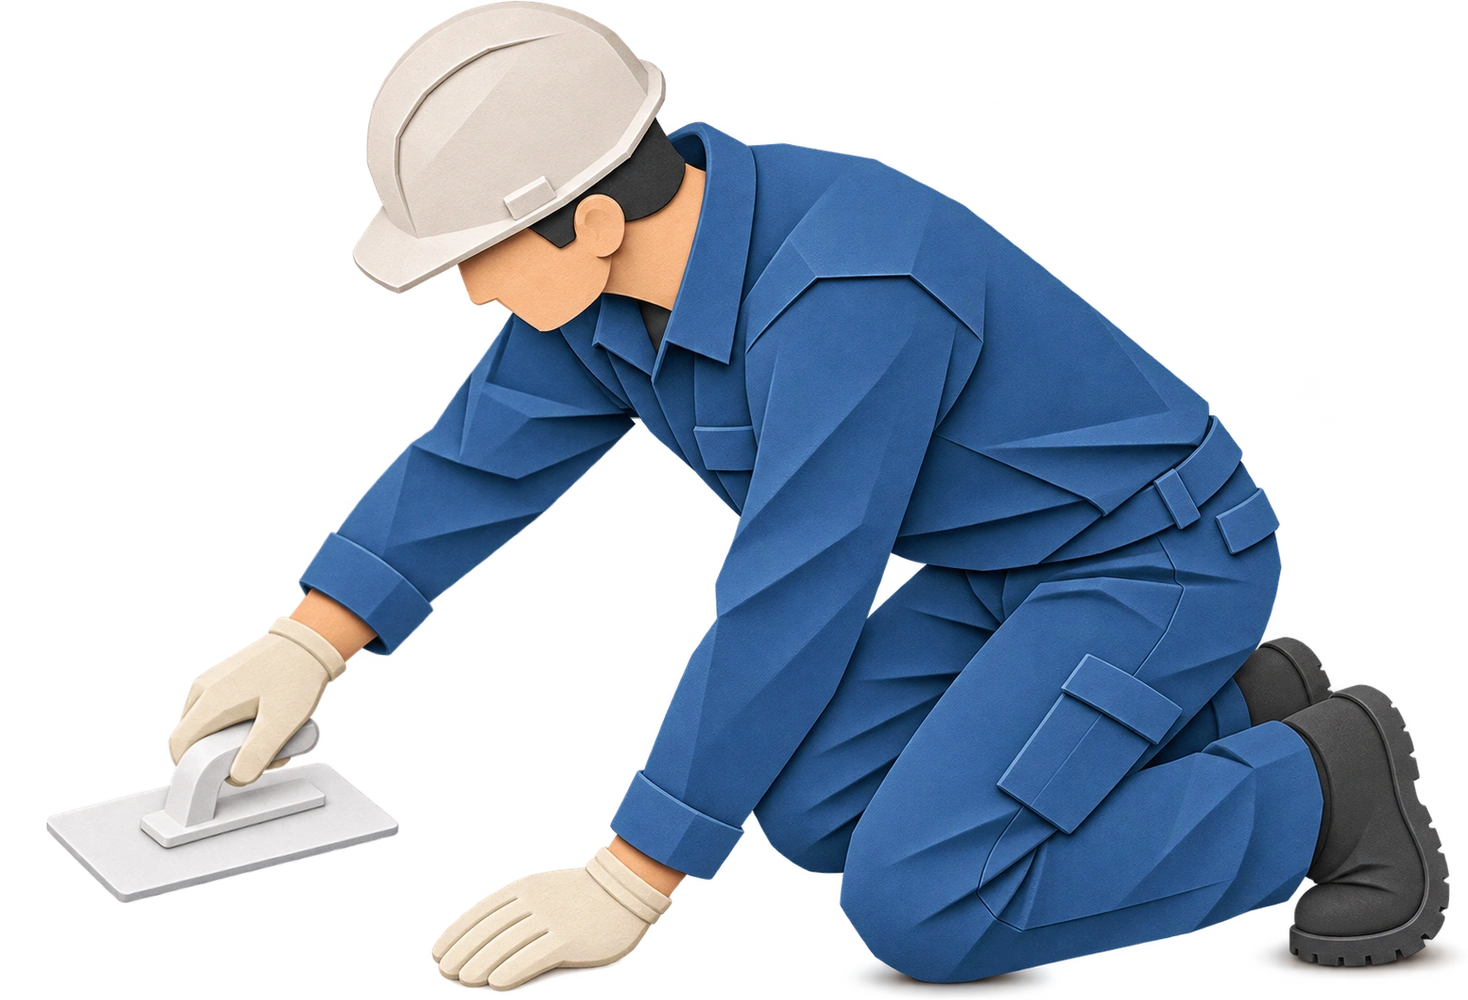
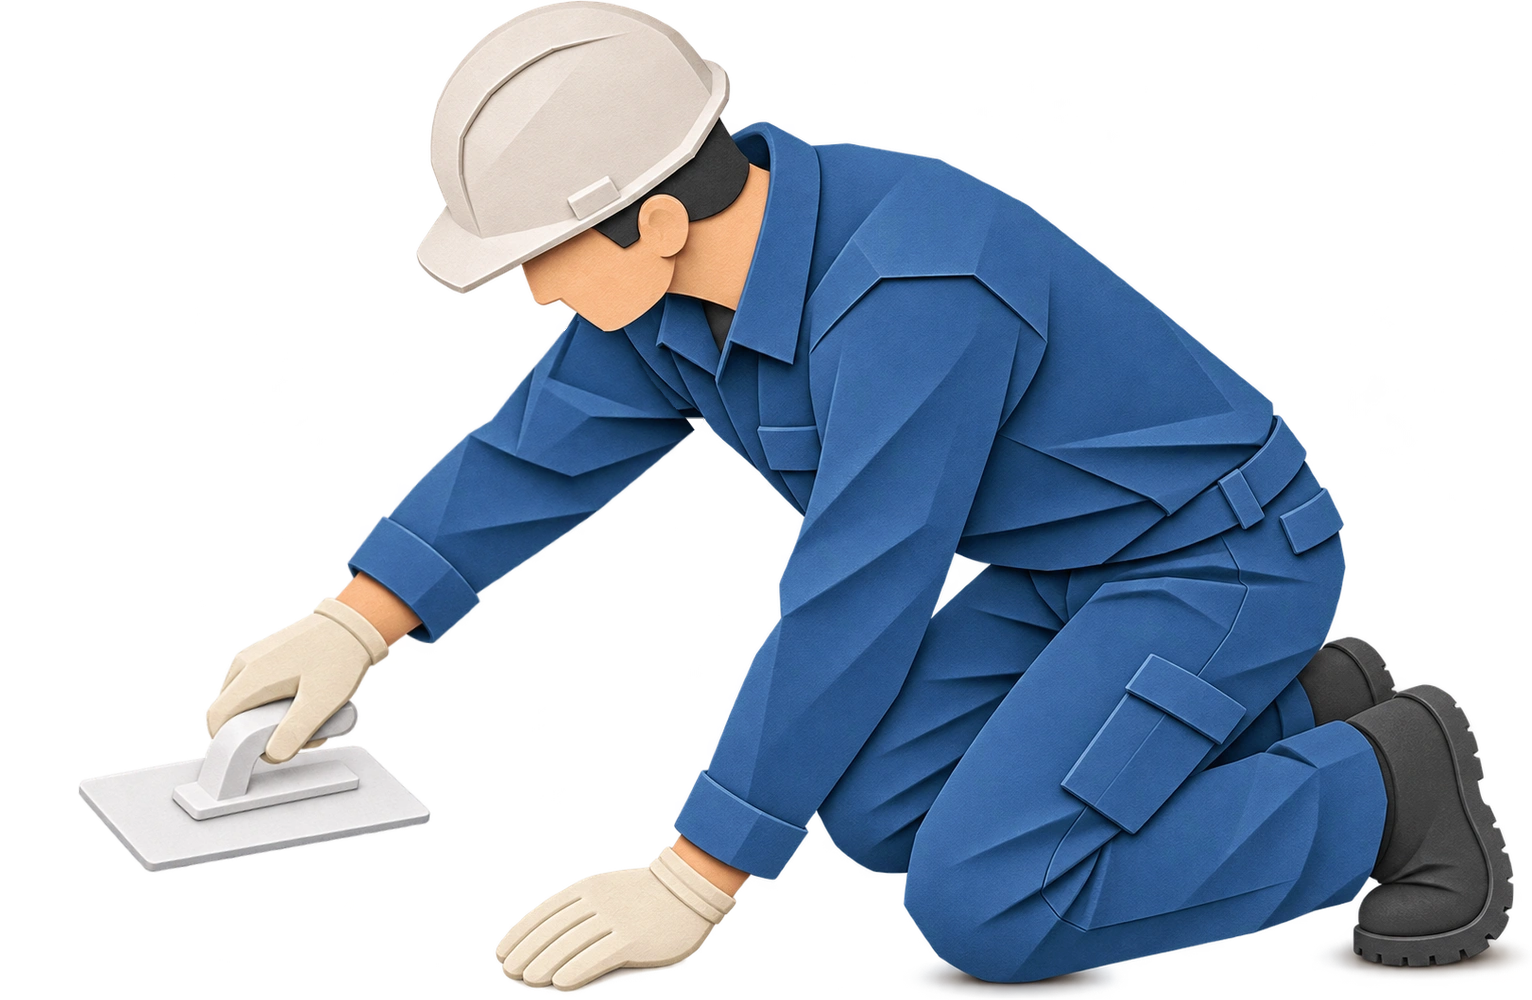
safd

diff --git a/css/hex_pc.css b/css/hex_pc.css
@@ -5191,8 +5191,8 @@ html body
 .hex-hero-character--family{--hex-sprite-x:30%;--hex-sprite-bottom:30%;--hex-sprite-width:8.8%;}
 .hex-hero-character--supervisor{--hex-sprite-x:30%;--hex-sprite-bottom:45%;--hex-sprite-width:3.8%;}
 .hex-hero-character--block{--hex-sprite-x:38.4%;--hex-sprite-bottom:42.7%;--hex-sprite-width:5%;}
-/* Preserve registration after adding 80 transparent pixels to the left of the 1388px original. */
-.hex-hero-character--sakan{--hex-sprite-x:60.6541786744%;--hex-sprite-bottom:40%;--hex-sprite-width:6.3458213256%;}
+/* Preserve registration after adding 144 transparent pixels to the left of the 1388px original. */
+.hex-hero-character--sakan{--hex-sprite-x:60.3775216138%;--hex-sprite-bottom:40%;--hex-sprite-width:6.6224783862%;}
 .hex-hero-character--pruning{--hex-sprite-x:50.5%;--hex-sprite-bottom:41.5%;--hex-sprite-width:4%;}
 .hex-hero-character--aluminum{--hex-sprite-x:70.7%;--hex-sprite-bottom:44%;--hex-sprite-width:2.54%;}
 

diff --git a/js/hex.js b/js/hex.js
@@ -579,7 +579,7 @@ const HEX_IS_PRODUCTION=HEX_HOSTS.PRODUCTION.indexOf(location.hostname)!==-1;
     if(/^(?:left|right)_bottom04\.webp$/i.test(file))file+='?v=20261029-oriented';
     if(!/^[^/\\?#]+\.(?:avif|gif|jpe?g|png|svg|webp)(?:[?#].*)?$/i.test(file))return null;
     var url=new URL(file,imageRoot);
-    if(/^sakan1\.webp(?=[?#]|$)/i.test(file))url.searchParams.set('v','20261127-arm-frames');
+    if(/^sakan1\.webp(?=[?#]|$)/i.test(file))url.searchParams.set('v','20261127-arm-frames-2');
     if(sceneAsset.test(file)){
       var version=/^(?:drawing|tree|underplant)/i.test(file)?'20261118-cropped':'20261118-restored';
       url.searchParams.set('v',version);
